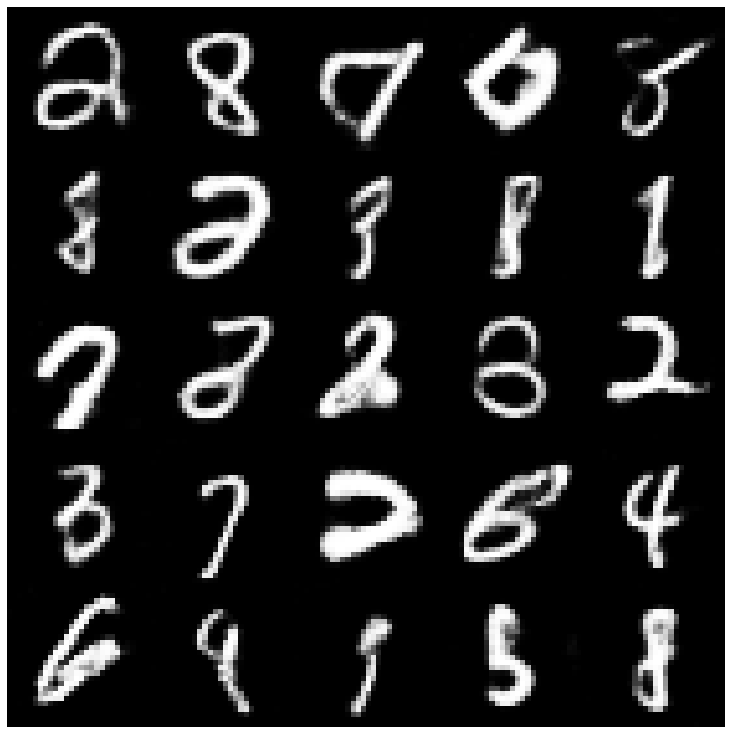
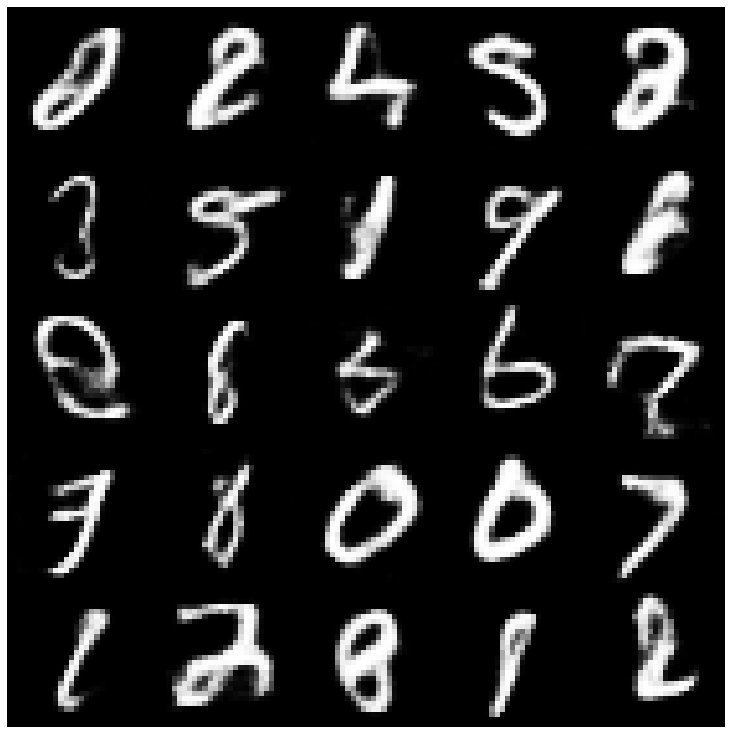
make AAE trainings

diff --git a/examples/scripts/training.py b/examples/scripts/training.py
@@ -311,6 +311,28 @@ def main(args):
             decoder=Decoder_AE(model_config),
         )
 
+    elif args.model_name == "vae_gan":
+        from pythae.trainers import (
+            CoupledOptimizerAdversarialTrainer,
+            CoupledOptimizerAdversarialTrainerConfig
+        )
+
+        if args.model_config is not None:
+            model_config = CoupledOptimizerAdversarialTrainerConfig.from_json_file(
+                args.model_config
+            )
+
+        else:
+            model_config = CoupledOptimizerAdversarialTrainer()
+
+        model_config.input_dim = data_input_dim
+
+        model = CoupledOptimizerAdversarialTrainer(
+            model_config=model_config,
+            encoder=Encoder_VAE(model_config),
+            decoder=Decoder_AE(model_config),
+        )
+
     logger.info(f"Successfully build {args.model_name.upper()} model !\n")
 
     encoder_num_param = sum(
@@ -337,7 +359,10 @@ def main(args):
     if model.model_name == 'RAE_L2':
         training_config = CoupledOptimizerTrainerConfig.from_json_file(args.training_config)
 
-    if model.model_name == 'Adversarial_AE':
+    elif model.model_name == 'Adversarial_AE':
+        training_config = AdversarialTrainerConfig.from_json_file(args.training_config)
+
+    elif model.model_name == 'VAEGAN':
         training_config = AdversarialTrainerConfig.from_json_file(args.training_config)
 
     else:

diff --git a/src/pythae/models/adversarial_ae/adversarial_ae_model.py b/src/pythae/models/adversarial_ae/adversarial_ae_model.py
@@ -147,7 +147,7 @@ class Adversarial_AE(VAE):
                 recon_x.reshape(x.shape[0], -1),
                 x.reshape(x.shape[0], -1),
                 reduction='none'
-            ).mean(dim=-1)
+            ).sum(dim=-1)
 
         elif self.model_config.reconstruction_loss == "bce":
 
@@ -155,7 +155,7 @@ class Adversarial_AE(VAE):
                 recon_x.reshape(x.shape[0], -1),
                 x.reshape(x.shape[0], -1),
                 reduction='none'
-            ).mean(dim=-1)
+            ).sum(dim=-1)
 
 
         gen_adversarial_score = self.discriminator(z).adversarial_cost.flatten()
